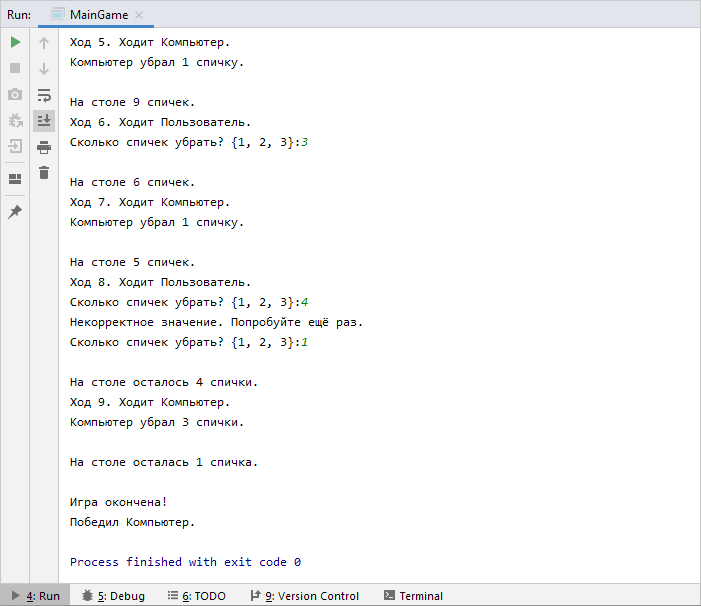
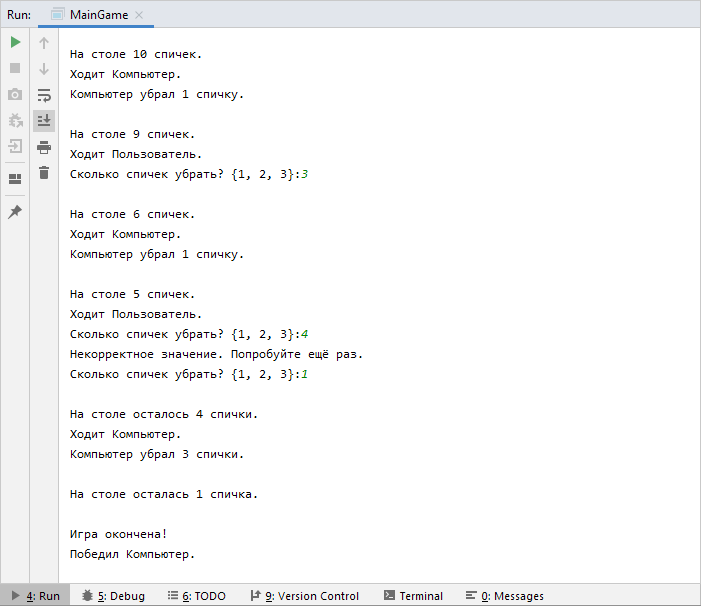
removing info about move number

diff --git a/src/com/company/MainGame.java b/src/com/company/MainGame.java
@@ -17,8 +17,6 @@ public class MainGame {
         Player computer = new Player("Компьютер");
         Player currentPlayer = null;
 
-        int moveNumber = 0;
-
         SimplePlayerQueueRepository playerQueue = new SimplePlayerQueueRepository();
 
         SimplePlayerService playerService = new SimplePlayerService(matchHeap);
@@ -31,13 +29,12 @@ public class MainGame {
         while (!matchHeap.isLastMatch() && !matchHeap.isEmpty()) {
 
             int matchesToRemove;
-            moveNumber++;
 
             informer.informAboutMatchHeapState(matchHeap.getNumberOfMatches());
 
             currentPlayer = playerQueue.getFirstPlayerInQueue();
 
-            informer.informAboutMoveNumberAndCurrentPlayer(moveNumber, currentPlayer);
+            informer.informAboutCurrentPlayer(currentPlayer);
 
             if (currentPlayer == computer) {
                 matchesToRemove = playerService.computerMove();

diff --git a/src/com/company/service/SimpleInformerService.java b/src/com/company/service/SimpleInformerService.java
@@ -24,8 +24,8 @@ public class SimpleInformerService implements InformerService {
     }
 
     @Override
-    public void informAboutMoveNumberAndCurrentPlayer(int moveNumber, Player currentPlayer) {
-        System.out.println("Ход " + moveNumber + ". Ходит " + currentPlayer.getName() + ".");
+    public void informAboutCurrentPlayer(Player currentPlayer) {
+        System.out.println("Ходит " + currentPlayer.getName() + ".");
     }
 
     @Override

diff --git a/src/com/company/service/InformerService.java b/src/com/company/service/InformerService.java
@@ -8,7 +8,7 @@ public interface InformerService {
 
     void informAboutMatchHeapState(int numberOfMatches);
 
-    void informAboutMoveNumberAndCurrentPlayer(int moveNumber, Player currentPlayer);
+    void informAboutCurrentPlayer(Player currentPlayer);
 
     void informAboutMatchesRemovedByPlayer(int numberOfRemovedMatches, Player player);
 
